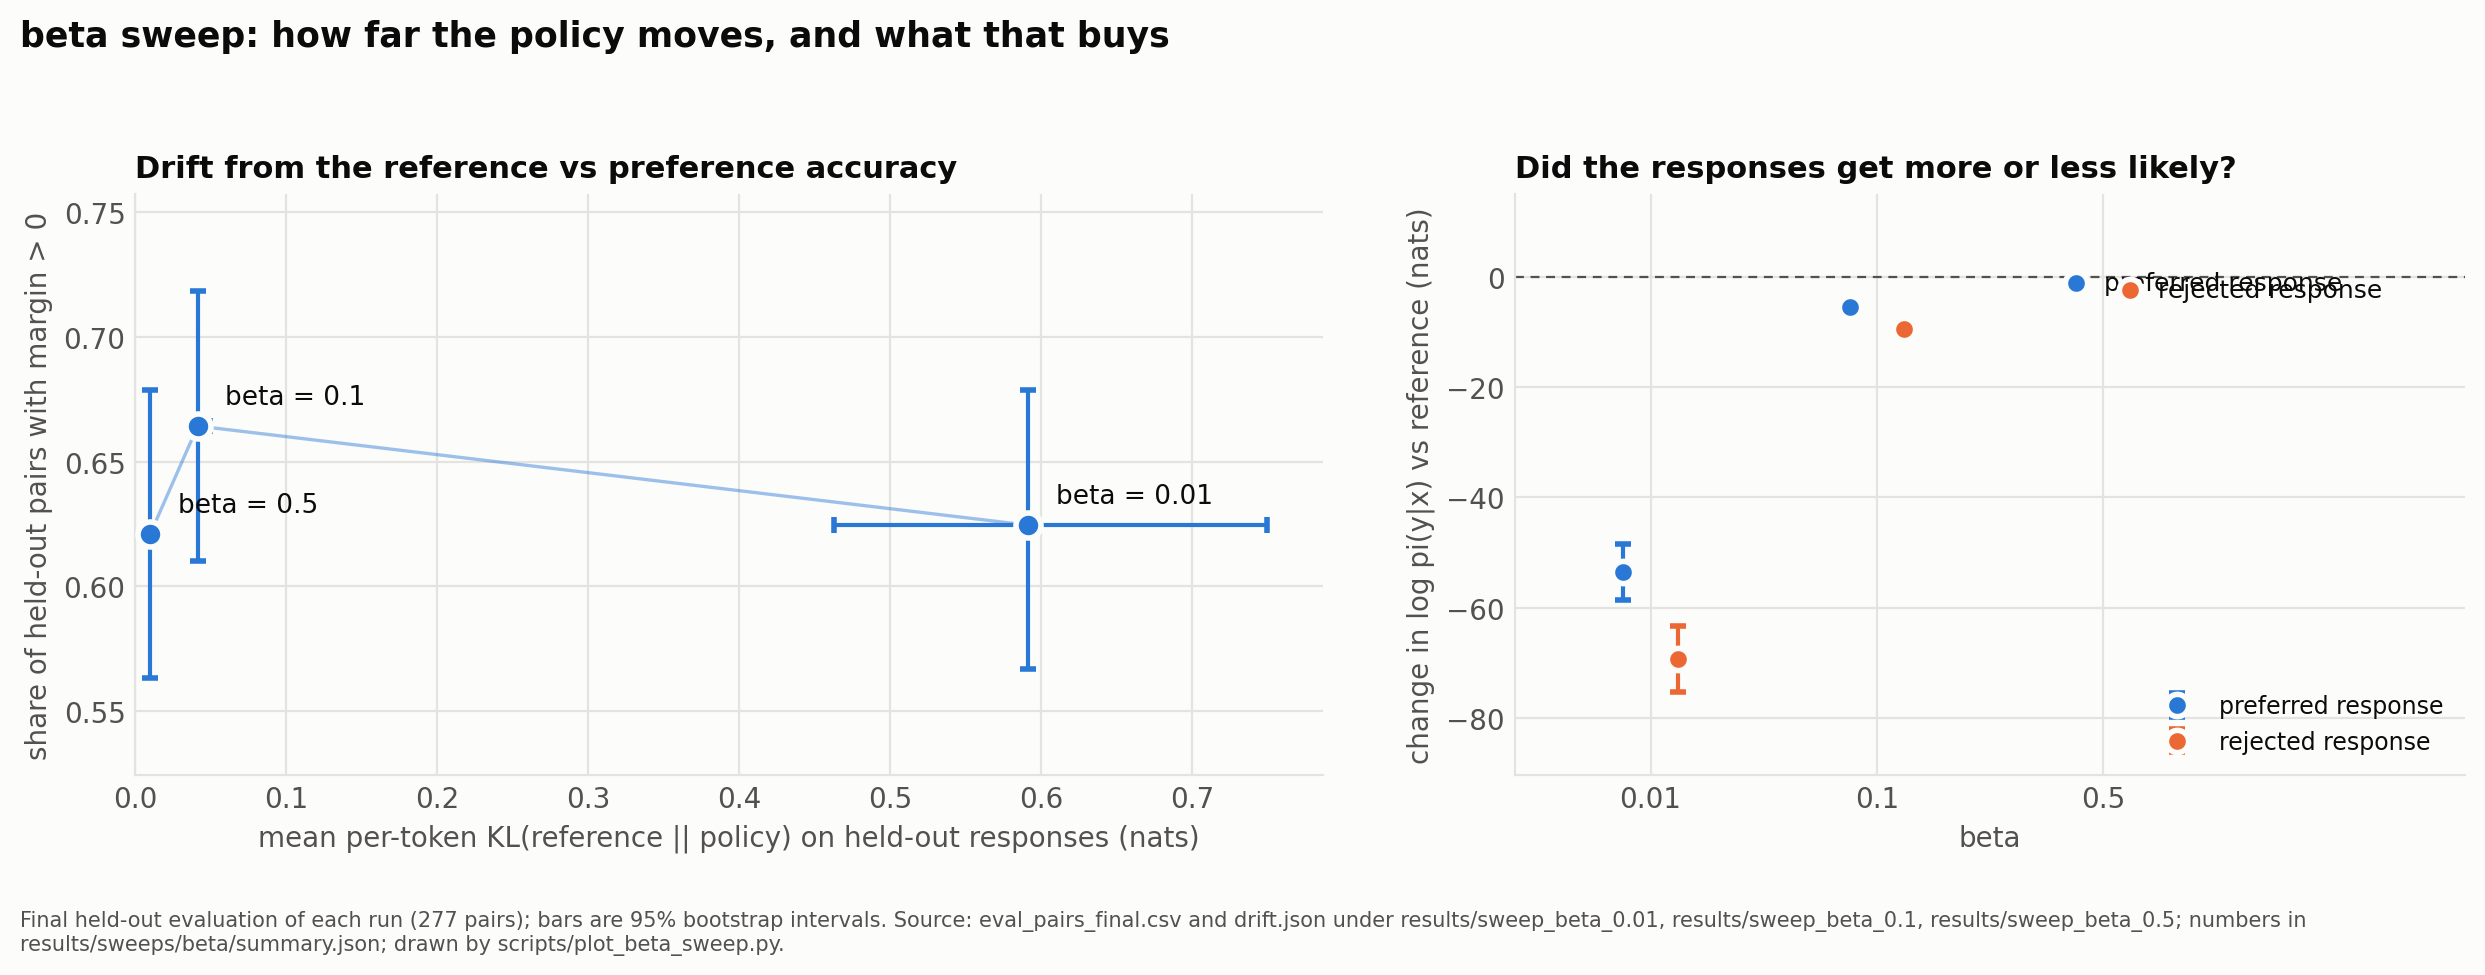
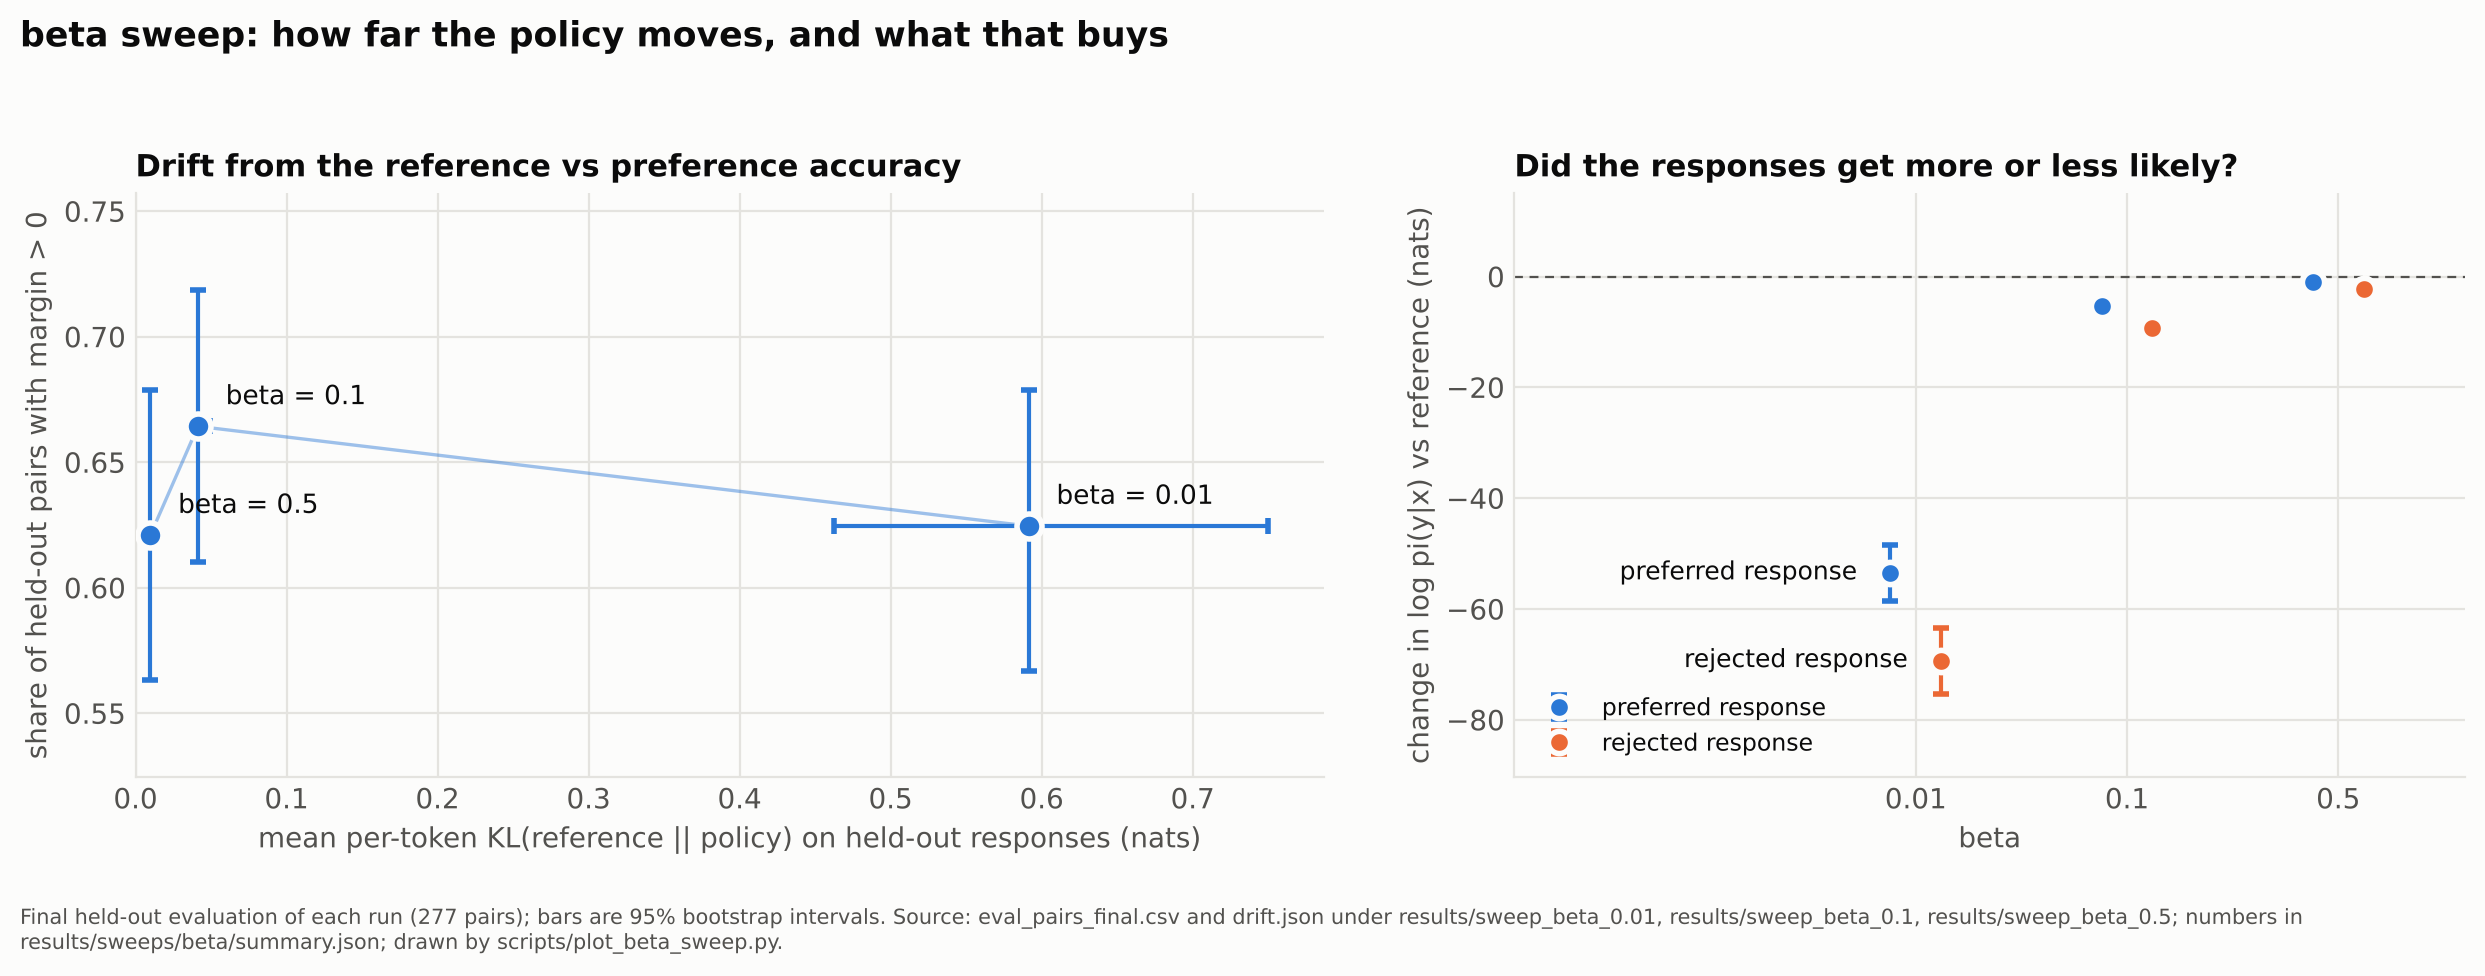
Fix overlapping labels in the beta sweep figure

diff --git a/scripts/plot_beta_sweep.py b/scripts/plot_beta_sweep.py
@@ -124,18 +124,21 @@ def make_figure(summary: dict, runs: list[dict], out_path: Path) -> None:
             label=name,
             zorder=3,
         )
+        # Label the left-most points: there the two series are far apart, so the
+        # labels cannot overlap (at the largest beta both sit near zero).
         ax_logp.annotate(
             name,
-            xy=(positions[-1] + offset, means[-1]),
-            xytext=(10, 0),
+            xy=(positions[0] + offset, means[0]),
+            xytext=(-12, 0),
             textcoords="offset points",
+            ha="right",
             va="center",
             fontsize=9,
             color=TEXT_PRIMARY,
         )
     ax_logp.axhline(0.0, color=TEXT_SECONDARY, linewidth=0.8, linestyle=(0, (4, 3)), zorder=1)
     ax_logp.set_xticks(positions, labels)
-    ax_logp.set_xlim(-0.6, len(positions) - 0.4 + 1.0)
+    ax_logp.set_xlim(-1.9, len(positions) - 0.4)
     ax_logp.set_title("Did the responses get more or less likely?")
     ax_logp.set_xlabel("beta")
     ax_logp.set_ylabel("change in log pi(y|x) vs reference (nats)")
